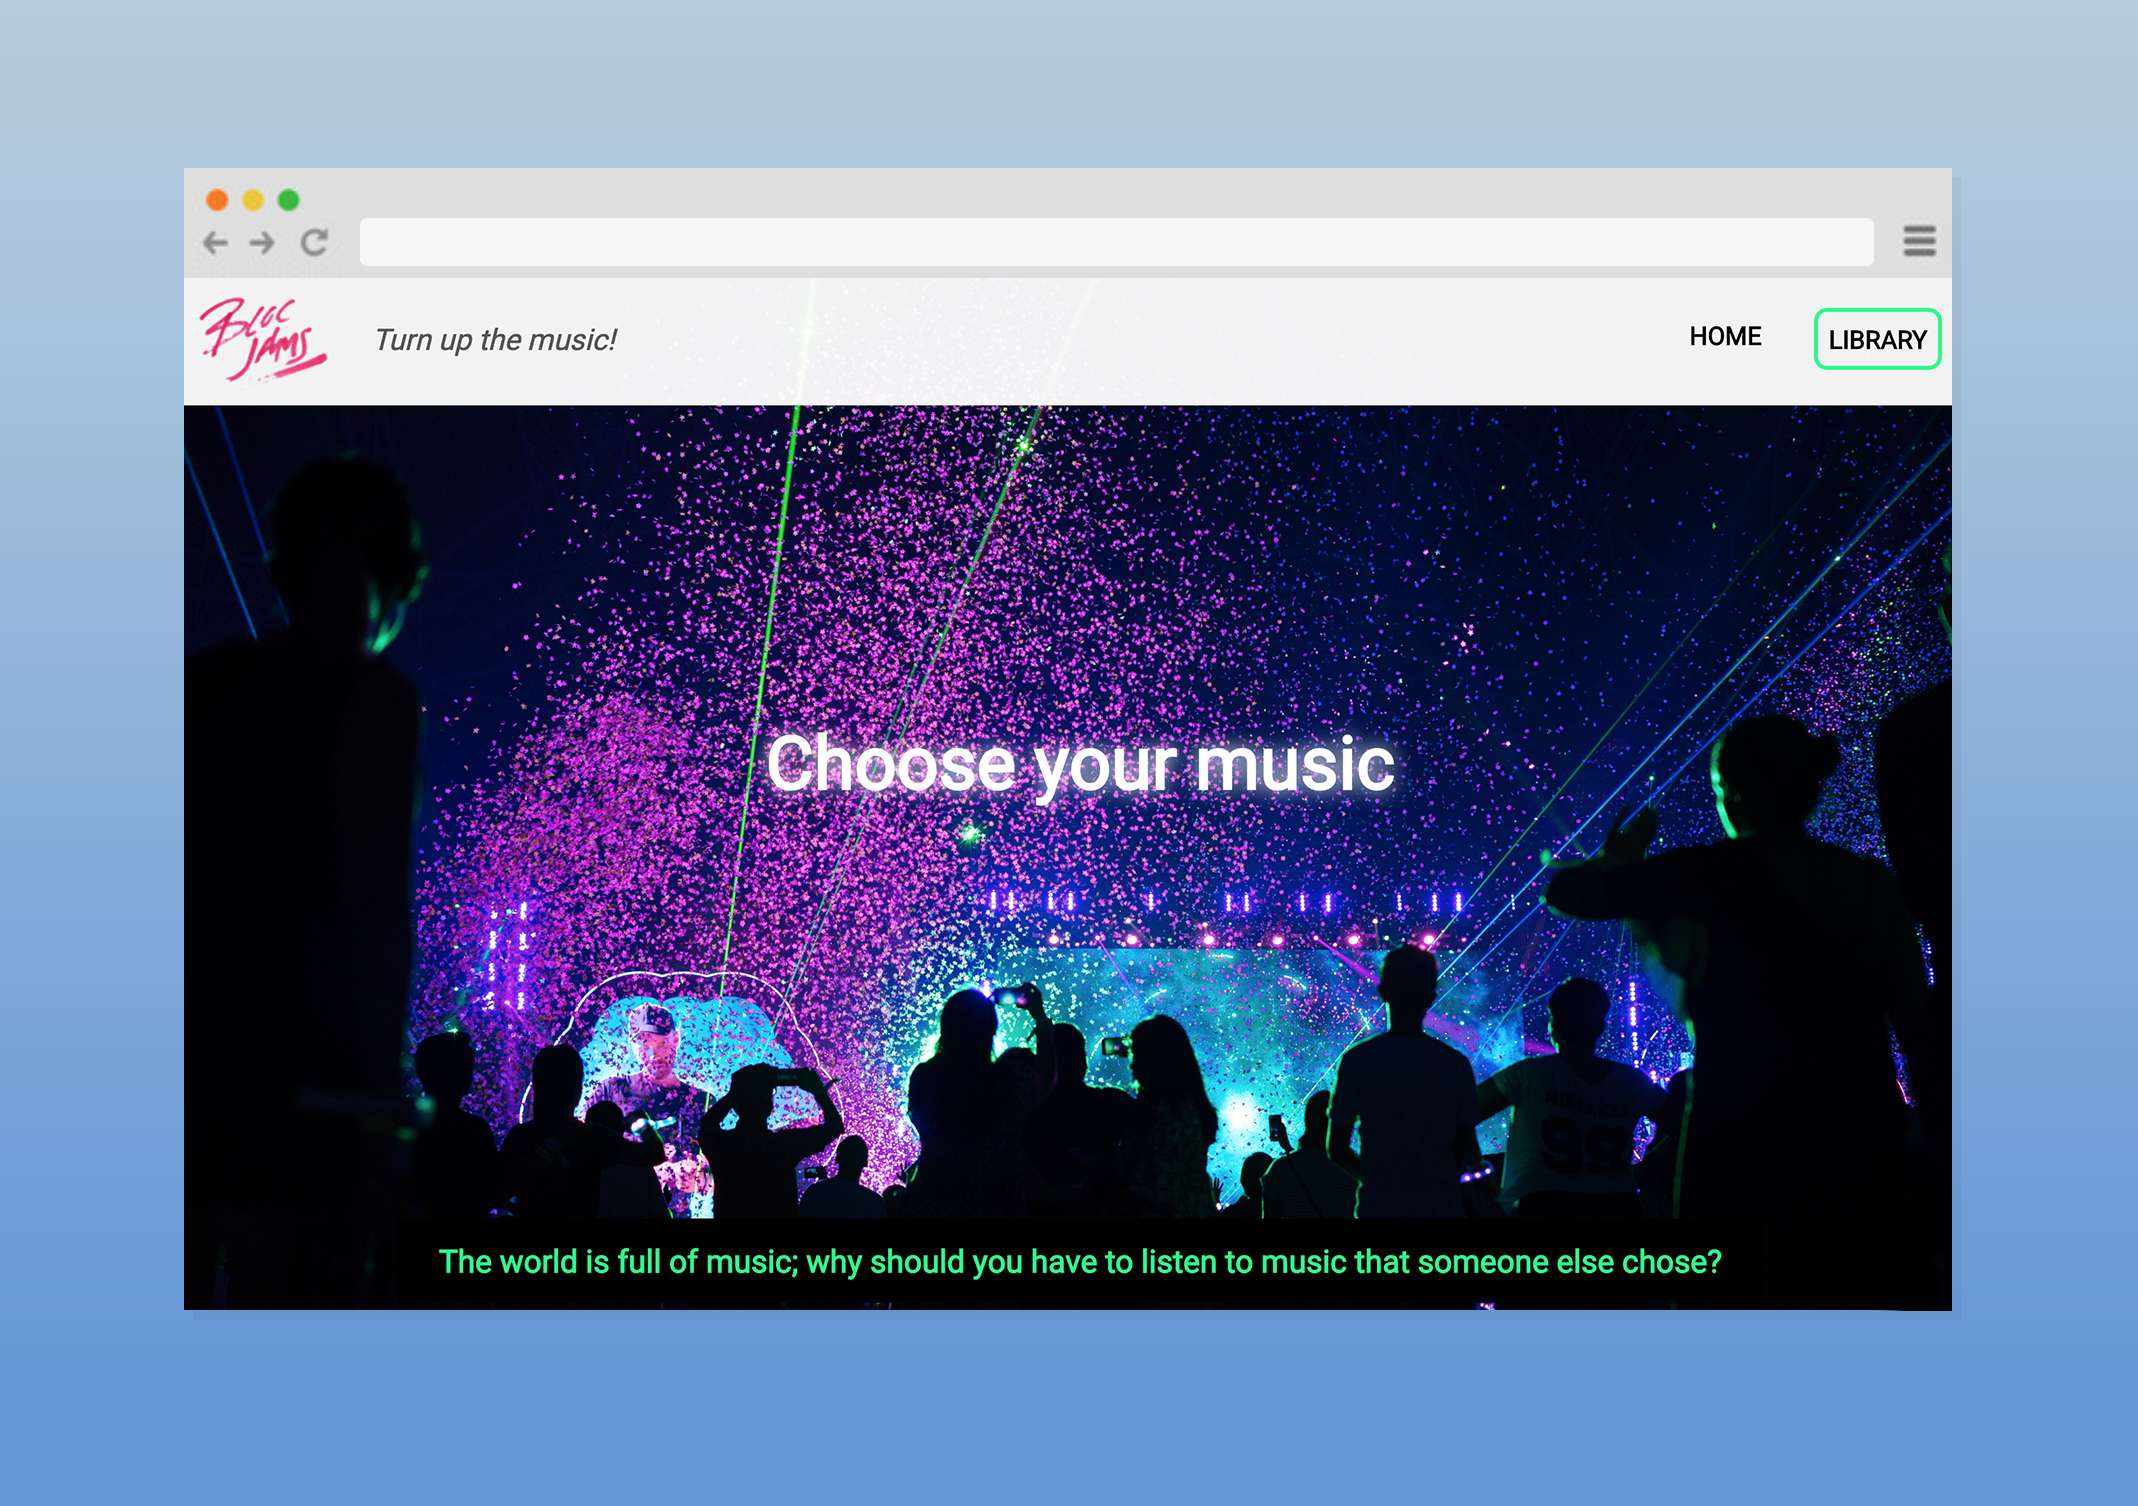
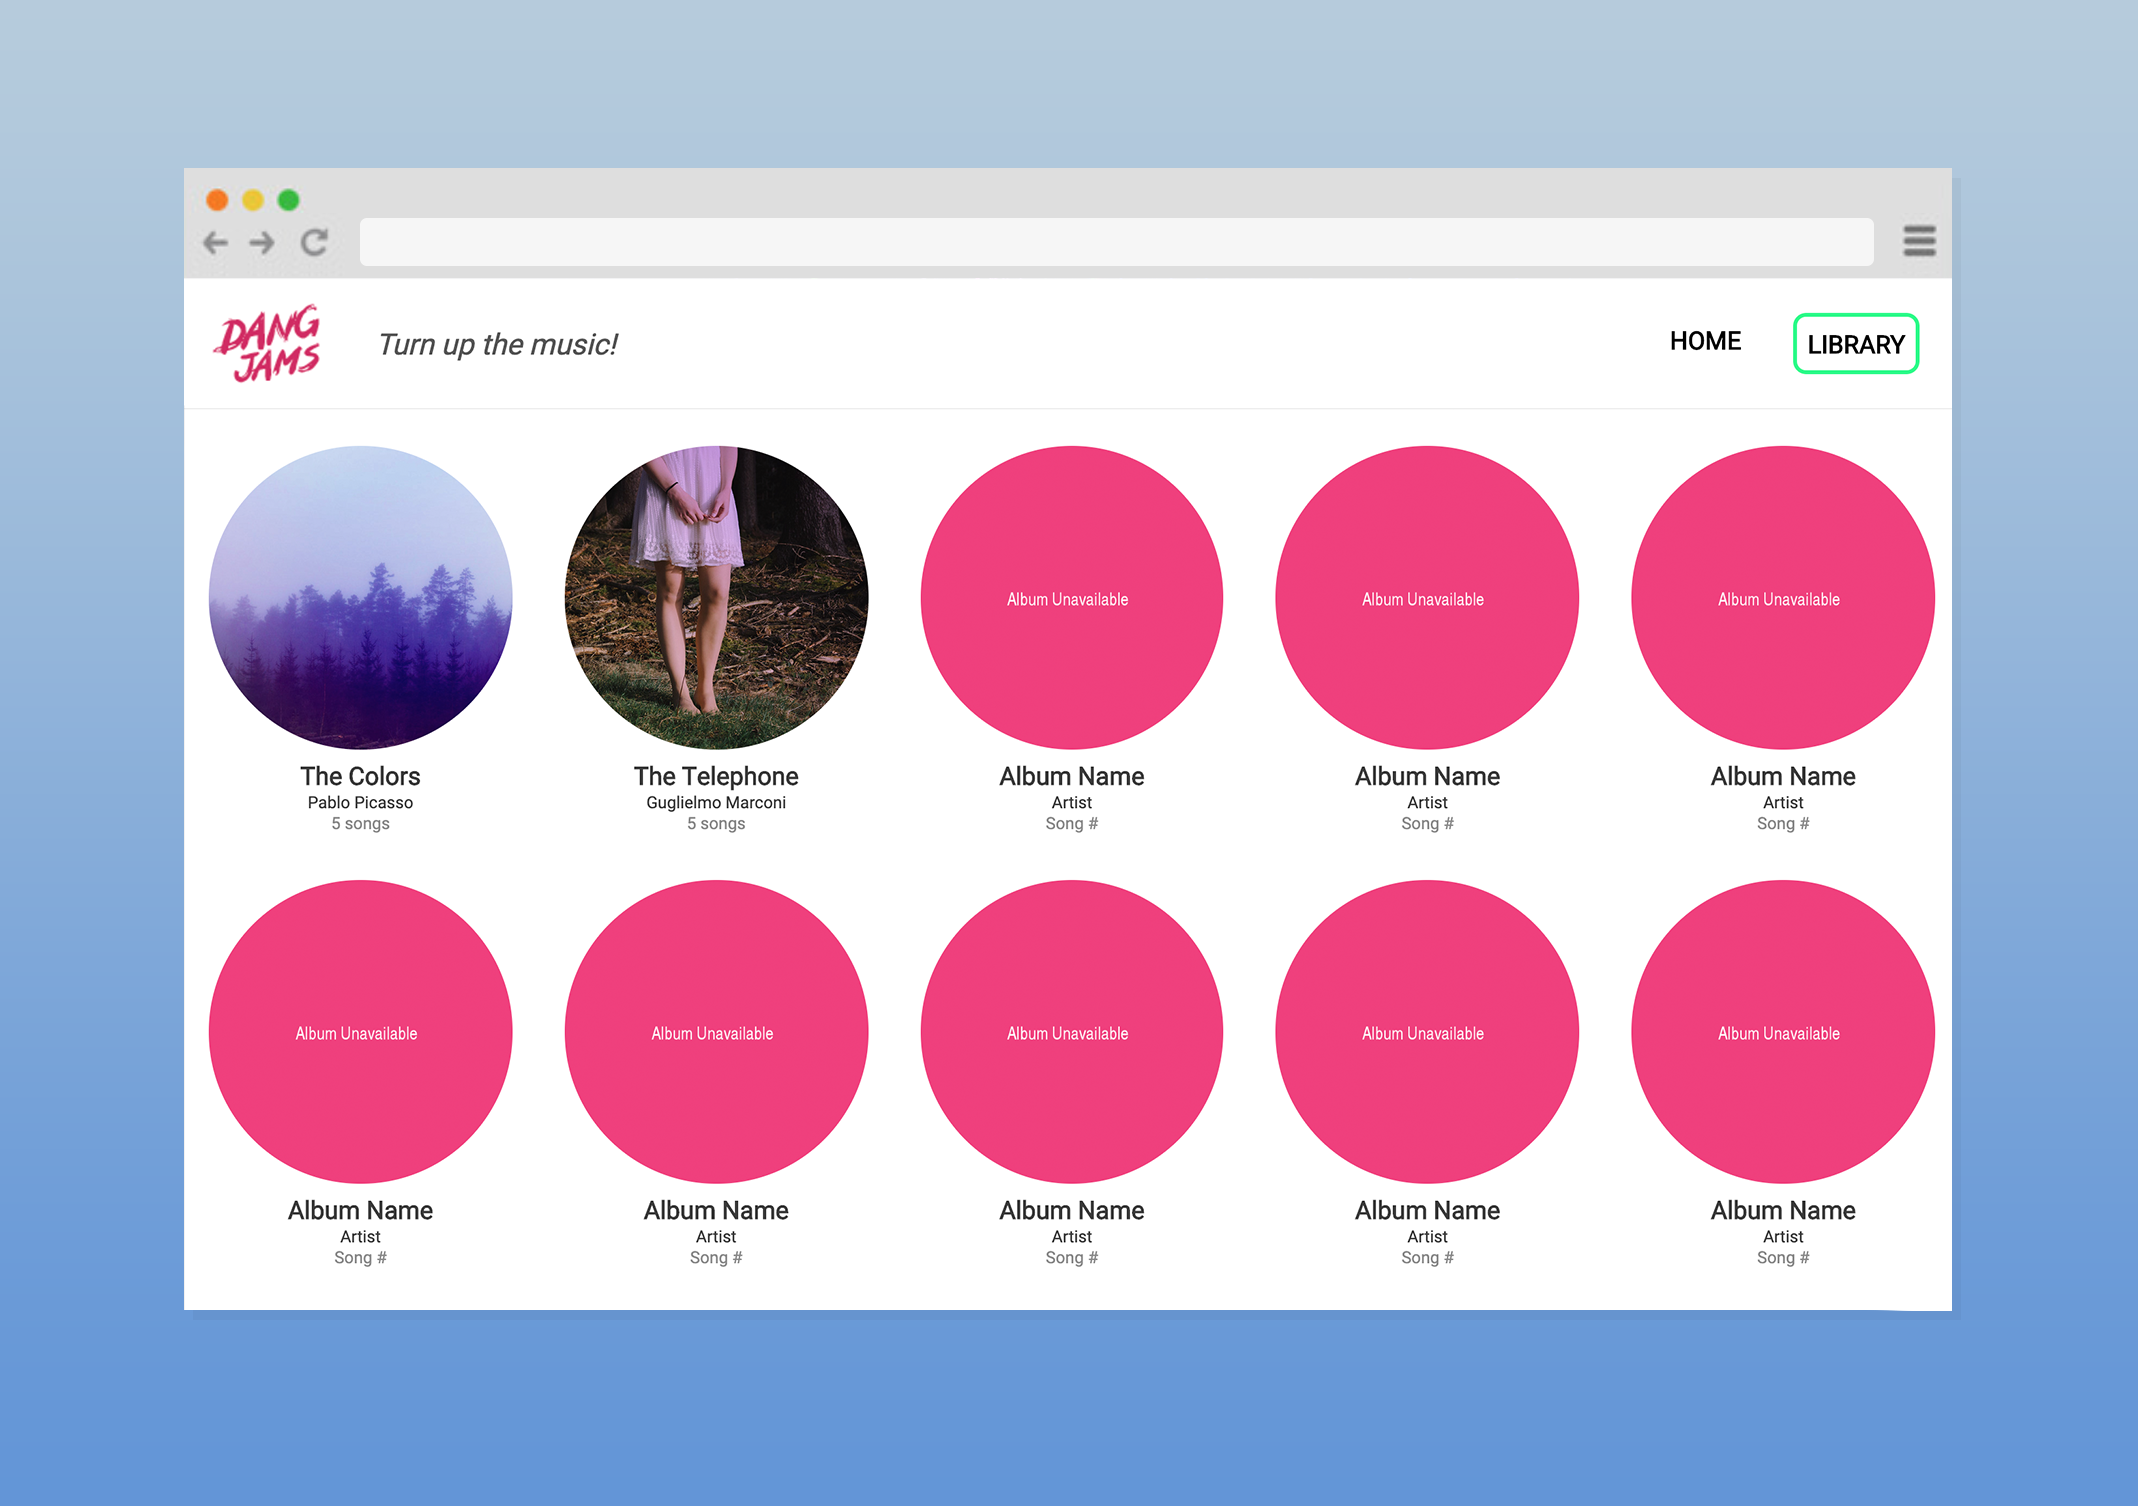
asset update

diff --git a/src/App.js b/src/App.js
@@ -11,9 +11,16 @@ class App extends Component {
       <div className="App">
         <header>
           <h1 id="logo">
-            <Link to="/"><img src="/assets/images/bloc_jams_logo.png" alt="Bloc Jams Logo" /></Link>
+            <Link to="/">
+              <img
+                src="/assets/images/dang_jams_logo.png"
+                alt="Bloc Jams Logo"
+              />
+            </Link>
           </h1>
-          <div id="tagline"><p>Turn up the music!</p></div>
+          <div id="tagline">
+            <p>Turn up the music!</p>
+          </div>
           <nav>
             <ul>
               <li>

diff --git a/README.md b/README.md
@@ -1,4 +1,4 @@
-# Chat App
+# React Jam
 
 A React based music player with music albums and it's list of songs.
 
@@ -47,6 +47,8 @@ You will also see any lint errors in the console.
 - HTML Audio player
 
 ## Todo
+
+- Repurpose css
 
 ## Status
 
